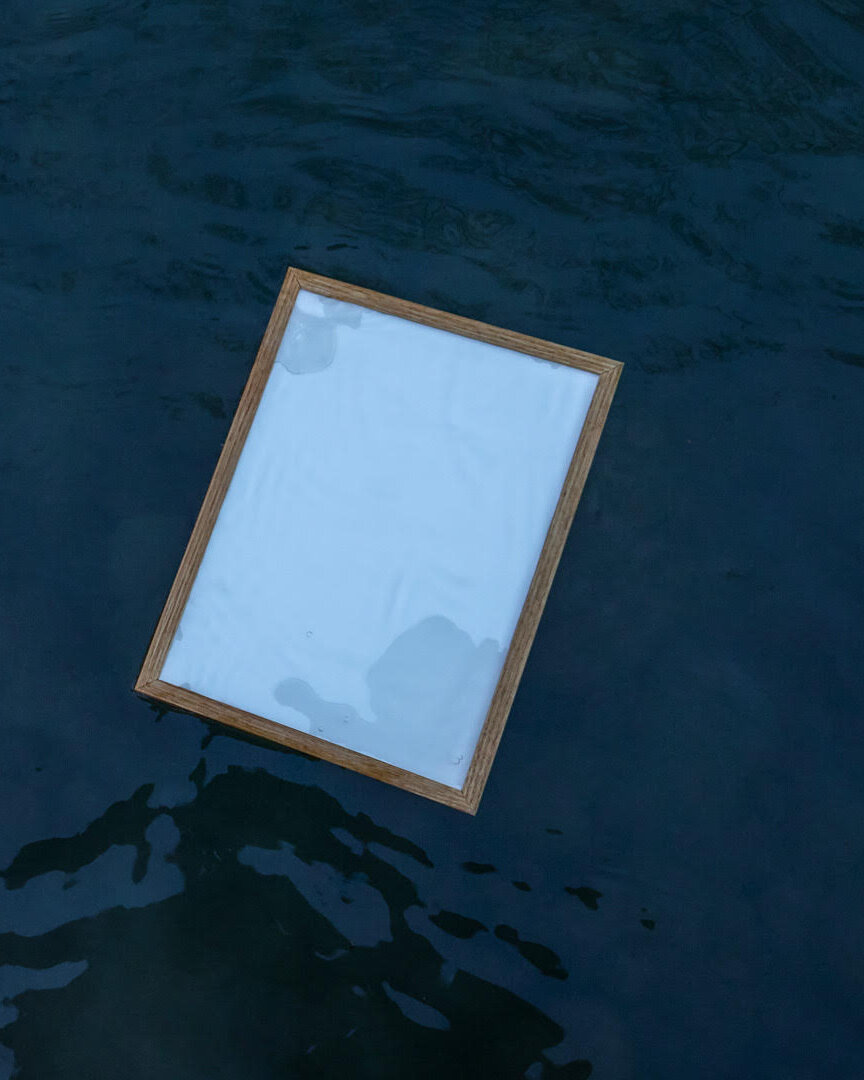
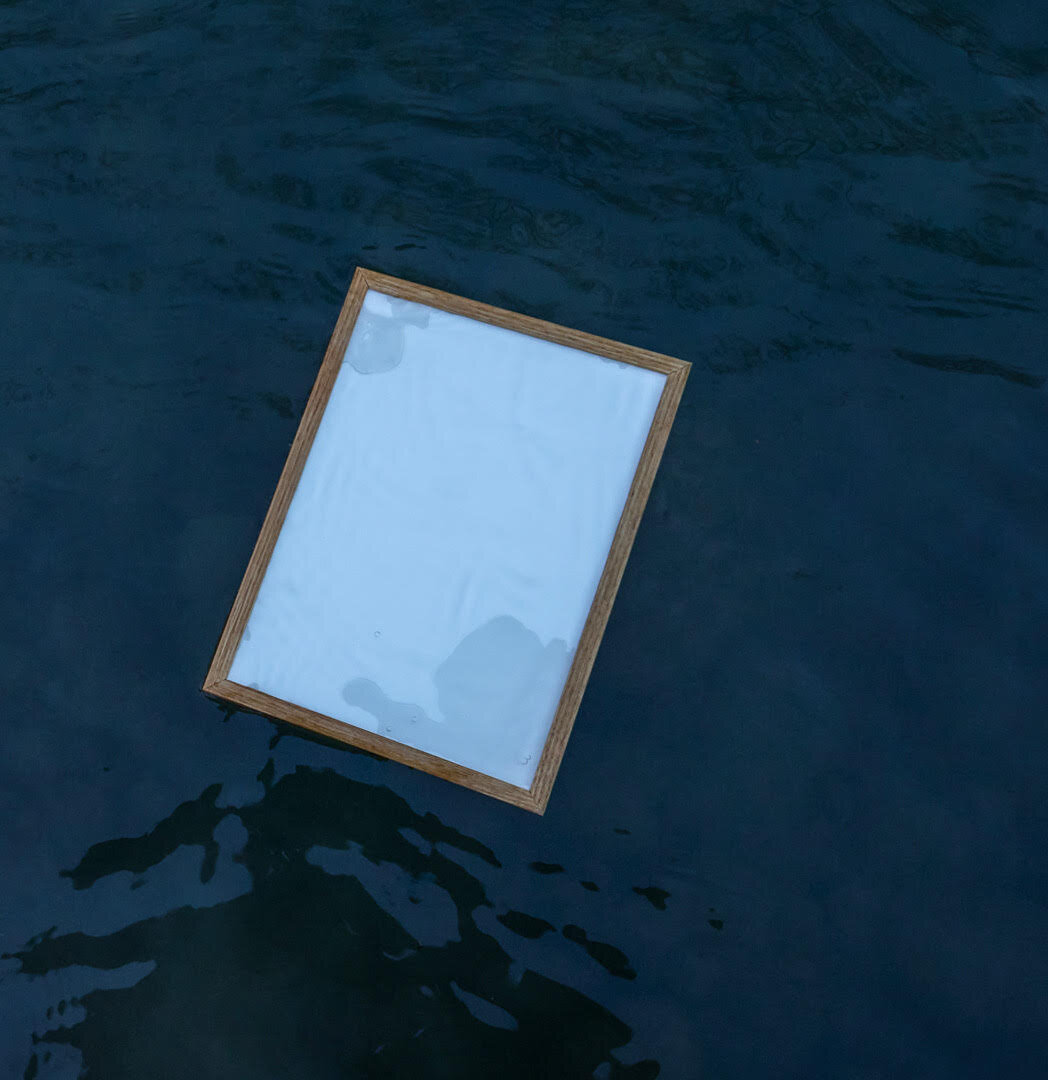
Adjust image display to show more background water
Update image background to use 'contain' with a dark blue color, and use a wider, near-square crop on mobile.

Replit-Commit-Author: Agent
Replit-Commit-Session-Id: 829b82cf-d7dc-4d1d-836f-aa98d7b167b9
Replit-Commit-Checkpoint-Type: full_checkpoint
Replit-Commit-Event-Id: 6b4f5c98-f64a-443d-89d1-a21a23463c5c
Replit-Commit-Screenshot-Url: https://storage.googleapis.com/screenshot-production-us-central1/dadd5ac2-ca2b-4b58-903d-3f7e6e283ca8/829b82cf-d7dc-4d1d-836f-aa98d7b167b9/gy15AVV
Replit-Helium-Checkpoint-Created: true

diff --git a/client/src/pages/Home.tsx b/client/src/pages/Home.tsx
@@ -16,12 +16,13 @@ export default function Home() {
       
       {/* Background Image - Static, no animation */}
       <div className="absolute inset-0 z-0 overflow-hidden">
-        {/* Mobile: crop 4:5 centrato sulla cornice */}
+        {/* Mobile: crop quasi quadrato con acqua intorno alla cornice */}
         <div
           className="absolute inset-0 w-full h-full block md:hidden"
           style={{
+            backgroundColor: '#0d2a40',
             backgroundImage: `url(${bgImageMobile})`,
-            backgroundSize: 'cover',
+            backgroundSize: 'contain',
             backgroundPosition: 'center center',
             backgroundRepeat: 'no-repeat',
           }}
